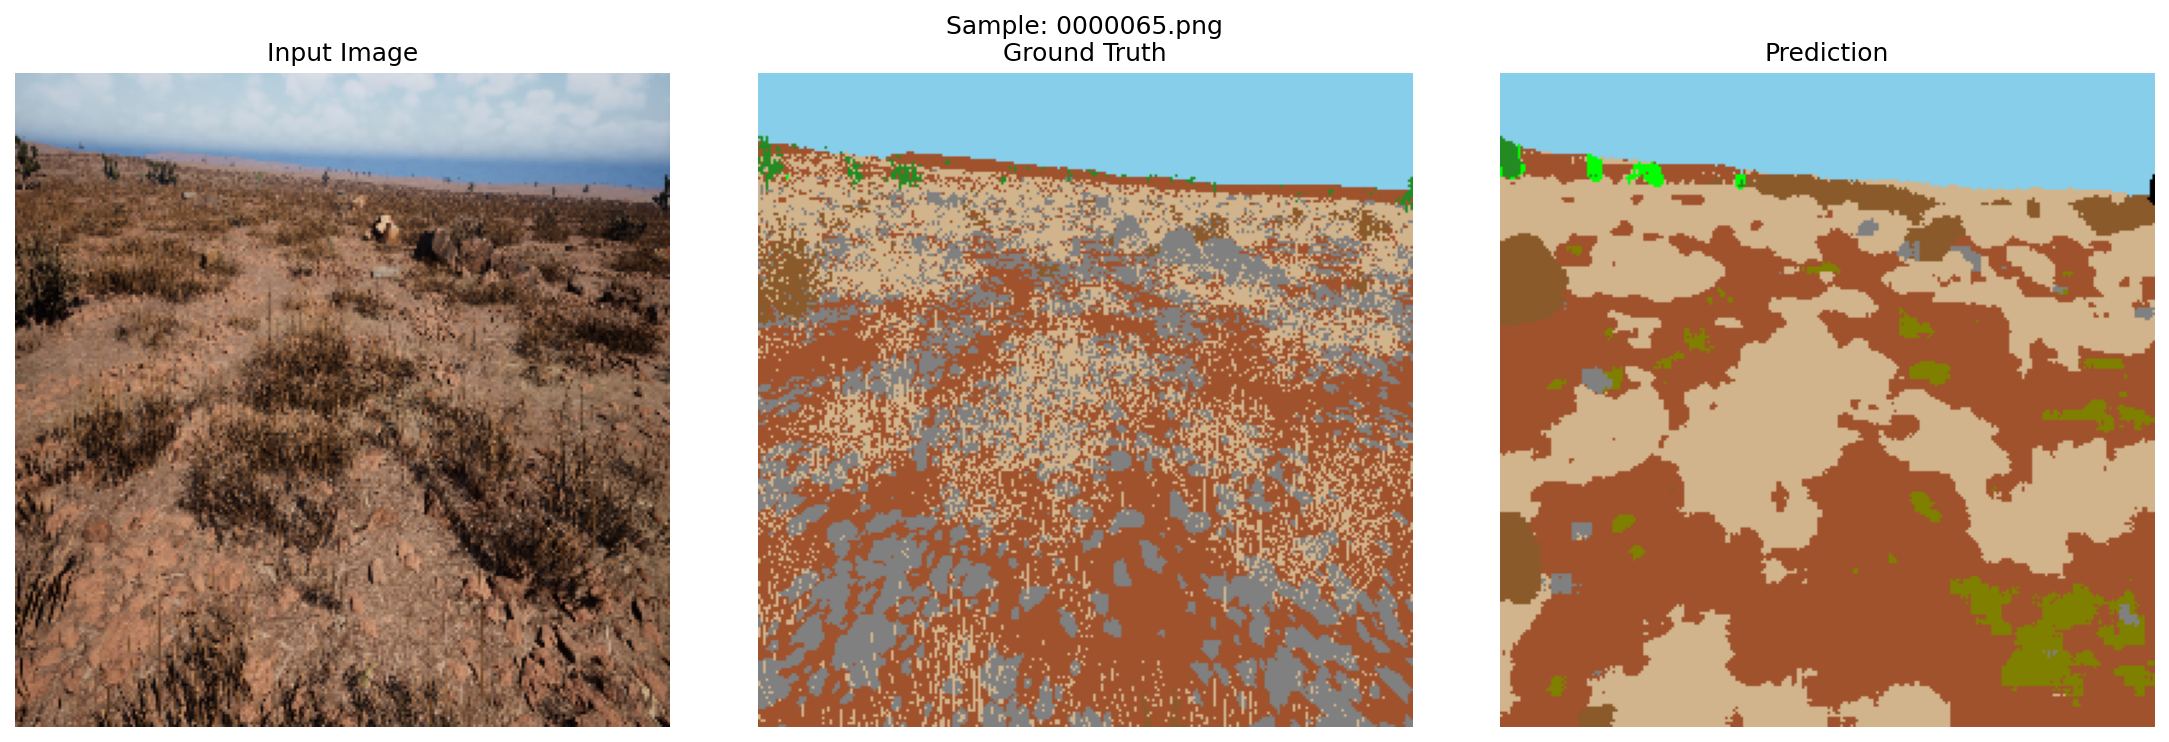
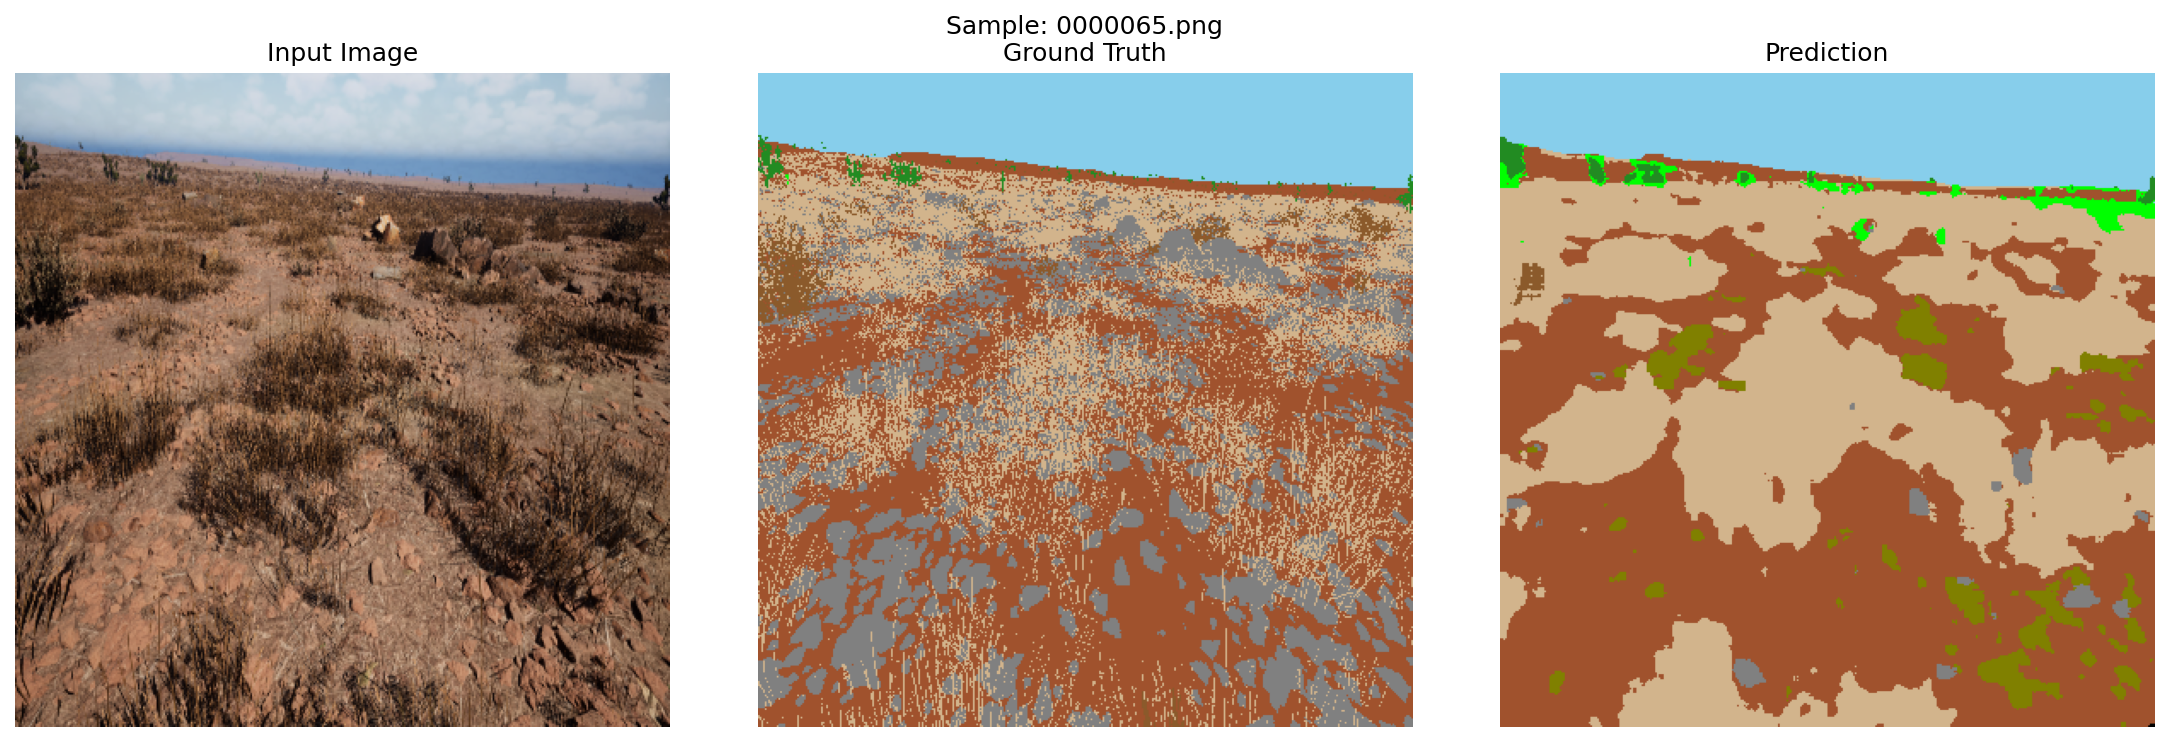
Update results with improved model and add mask refinement
- Updated model: Val IoU 0.4933 (was 0.4785), trained with 384px, stronger augmentation
- Test results with TTA: Mean IoU 0.3187, Pixel Accuracy 65.5%
- Added --refine flag to live_cam.py for finer masks (bilateral filter + morphology)
- Updated README with latest metrics

diff --git a/Offroad_Segmentation_Scripts/live_cam.py b/Offroad_Segmentation_Scripts/live_cam.py
@@ -341,6 +341,42 @@ def mask_to_color(mask):
     return color_mask
 
 
+def refine_mask(logits, orig_frame, orig_w, orig_h):
+    """Refine segmentation mask using guided filtering on softmax probabilities.
+
+    Uses the original image as a guide to sharpen boundaries:
+    1. Upsample softmax probabilities to original resolution
+    2. Apply bilateral filter guided by original image to smooth while preserving edges
+    3. Morphological cleanup to remove small noise regions
+    """
+    # Get softmax probabilities
+    probs = F.softmax(logits, dim=1).squeeze(0).cpu().numpy()  # (C, H, W)
+
+    # Resize original frame to guide resolution
+    guide = cv2.resize(orig_frame, (orig_w, orig_h))
+    guide_gray = cv2.cvtColor(guide, cv2.COLOR_BGR2GRAY)
+
+    # Upsample each class probability to original resolution
+    refined_probs = np.zeros((N_CLASSES, orig_h, orig_w), dtype=np.float32)
+    for c in range(N_CLASSES):
+        # Bilinear upscale of probability map
+        prob_map = cv2.resize(probs[c], (orig_w, orig_h), interpolation=cv2.INTER_LINEAR)
+        # Joint bilateral filter: smooth prob map guided by image edges
+        prob_uint8 = (prob_map * 255).astype(np.uint8)
+        filtered = cv2.bilateralFilter(prob_uint8, d=9, sigmaColor=75, sigmaSpace=75)
+        refined_probs[c] = filtered.astype(np.float32) / 255.0
+
+    # Argmax to get final mask
+    mask = np.argmax(refined_probs, axis=0).astype(np.uint8)
+
+    # Morphological cleanup: remove small regions
+    kernel = cv2.getStructuringElement(cv2.MORPH_ELLIPSE, (5, 5))
+    mask = cv2.morphologyEx(mask, cv2.MORPH_CLOSE, kernel)
+    mask = cv2.morphologyEx(mask, cv2.MORPH_OPEN, kernel)
+
+    return mask
+
+
 def preprocess_frame(frame):
     """Convert BGR frame to normalized tensor."""
     rgb = cv2.cvtColor(frame, cv2.COLOR_BGR2RGB)
@@ -384,6 +420,8 @@ def main():
                         help='Use lightweight MobileNetV3-Small model')
     parser.add_argument('--save_output', type=str, default=None,
                         help='Save output video to this path (no GUI needed)')
+    parser.add_argument('--refine', action='store_true',
+                        help='Apply CV2 post-processing for finer masks (bilateral filter + morphology)')
     args = parser.parse_args()
 
     global IMG_SIZE
@@ -456,12 +494,16 @@ def main():
         with torch.no_grad():
             logits = model(tensor)
 
-        pred = torch.argmax(logits, dim=1).squeeze(0).cpu().numpy().astype(np.uint8)
-
-        # Colorize and resize to original frame size
-        color_mask = mask_to_color(pred)
-        color_mask = cv2.resize(color_mask, (orig_w, orig_h), interpolation=cv2.INTER_NEAREST)
-        color_mask_bgr = cv2.cvtColor(color_mask, cv2.COLOR_RGB2BGR)
+        if args.refine:
+            # Refined mask: bilateral filter + morphology at full resolution
+            pred = refine_mask(logits, frame, orig_w, orig_h)
+            color_mask = mask_to_color(pred)
+            color_mask_bgr = cv2.cvtColor(color_mask, cv2.COLOR_RGB2BGR)
+        else:
+            pred = torch.argmax(logits, dim=1).squeeze(0).cpu().numpy().astype(np.uint8)
+            color_mask = mask_to_color(pred)
+            color_mask = cv2.resize(color_mask, (orig_w, orig_h), interpolation=cv2.INTER_NEAREST)
+            color_mask_bgr = cv2.cvtColor(color_mask, cv2.COLOR_RGB2BGR)
 
         # Overlay segmentation on frame
         overlay = cv2.addWeighted(frame, 1.0 - args.alpha, color_mask_bgr, args.alpha, 0)

diff --git a/README.md b/README.md
@@ -152,18 +152,18 @@ For edge deployment, we also trained a lightweight version:
 
 | Model | Parameters | Val IoU | Val Dice | Val Accuracy |
 |-------|-----------|---------|----------|-------------|
-| **Full (ConvNeXt-Tiny)** | 41.7M | **0.4785** | **0.6447** | **83.6%** |
+| **Full (ConvNeXt-Tiny)** | 41.7M | **0.4933** | **0.6612** | **84.0%** |
 | Lite (MobileNetV3-Small) | 3.2M | 0.4121 | 0.5675 | 81.6% |
 
-#### Per-Class Test IoU (Full Model)
+#### Per-Class Test IoU (Full Model, with TTA)
 | Class | IoU |
 |-------|-----|
-| Sky | 0.971 |
-| Landscape | 0.559 |
-| Dry Grass | 0.409 |
-| Dry Bushes | 0.294 |
-| Trees | 0.278 |
-| Rocks | 0.078 |
+| Sky | 0.982 |
+| Landscape | 0.596 |
+| Dry Grass | 0.441 |
+| Trees | 0.379 |
+| Dry Bushes | 0.267 |
+| Rocks | 0.068 |
 
 ---
 
